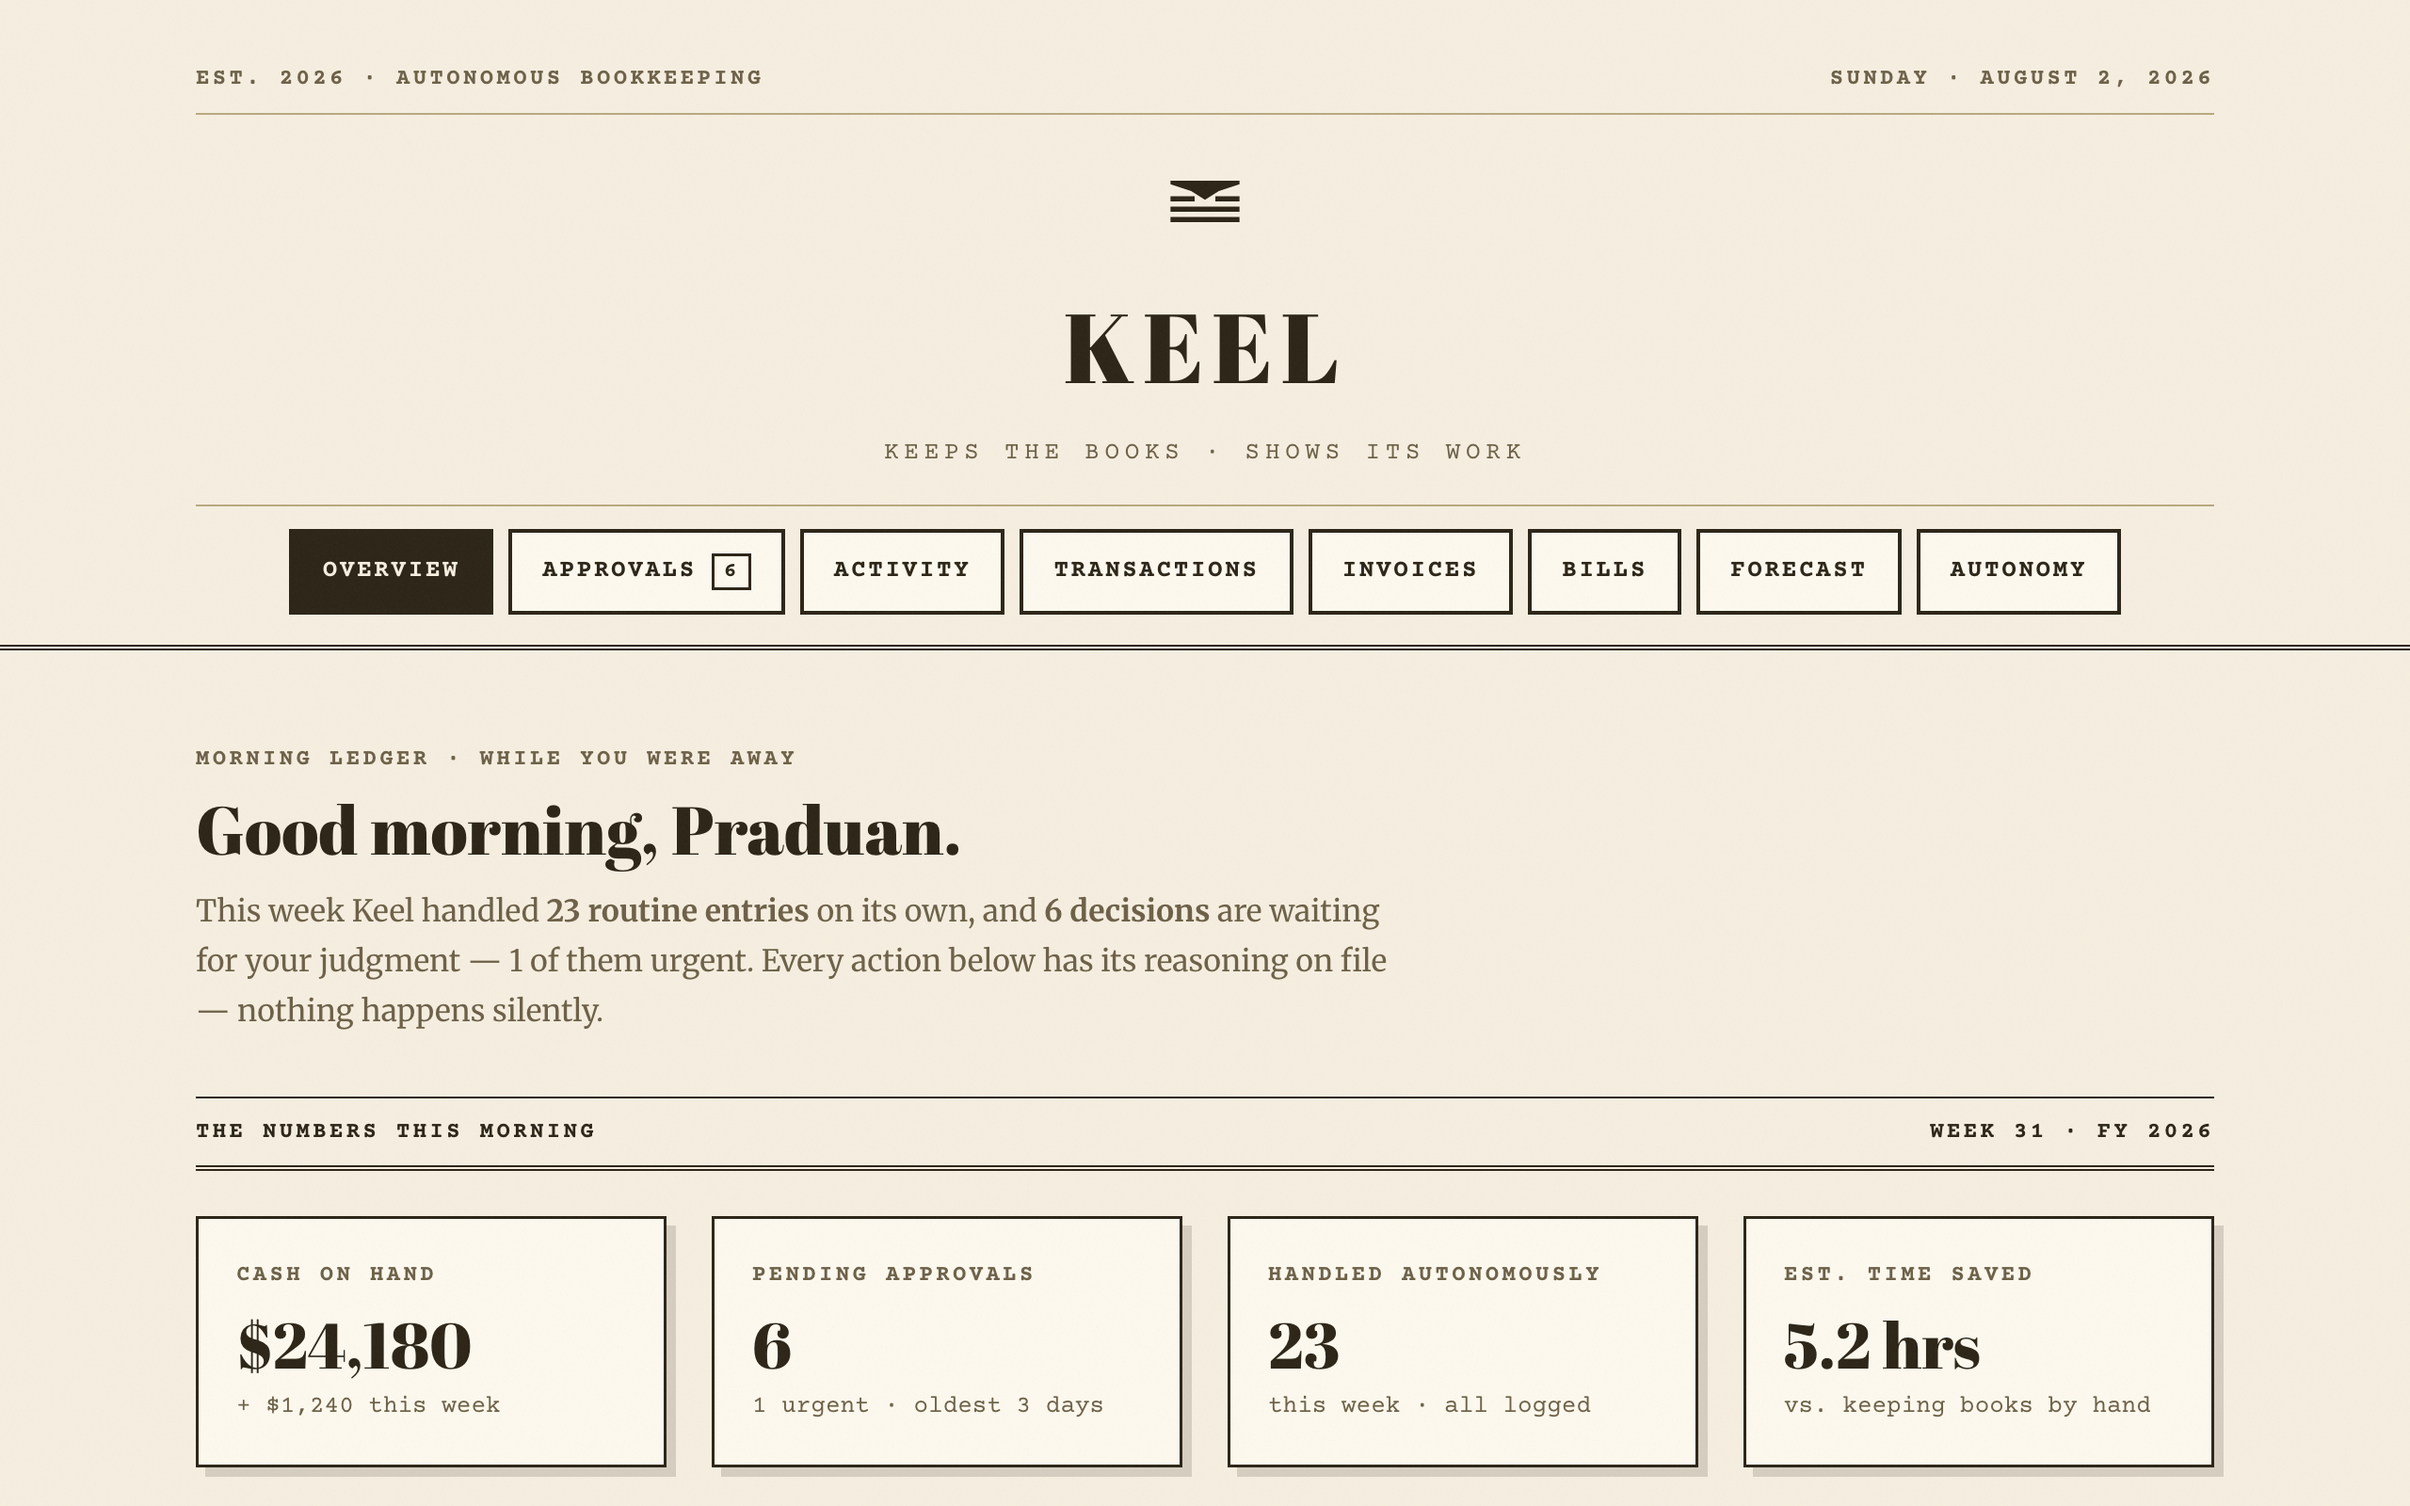
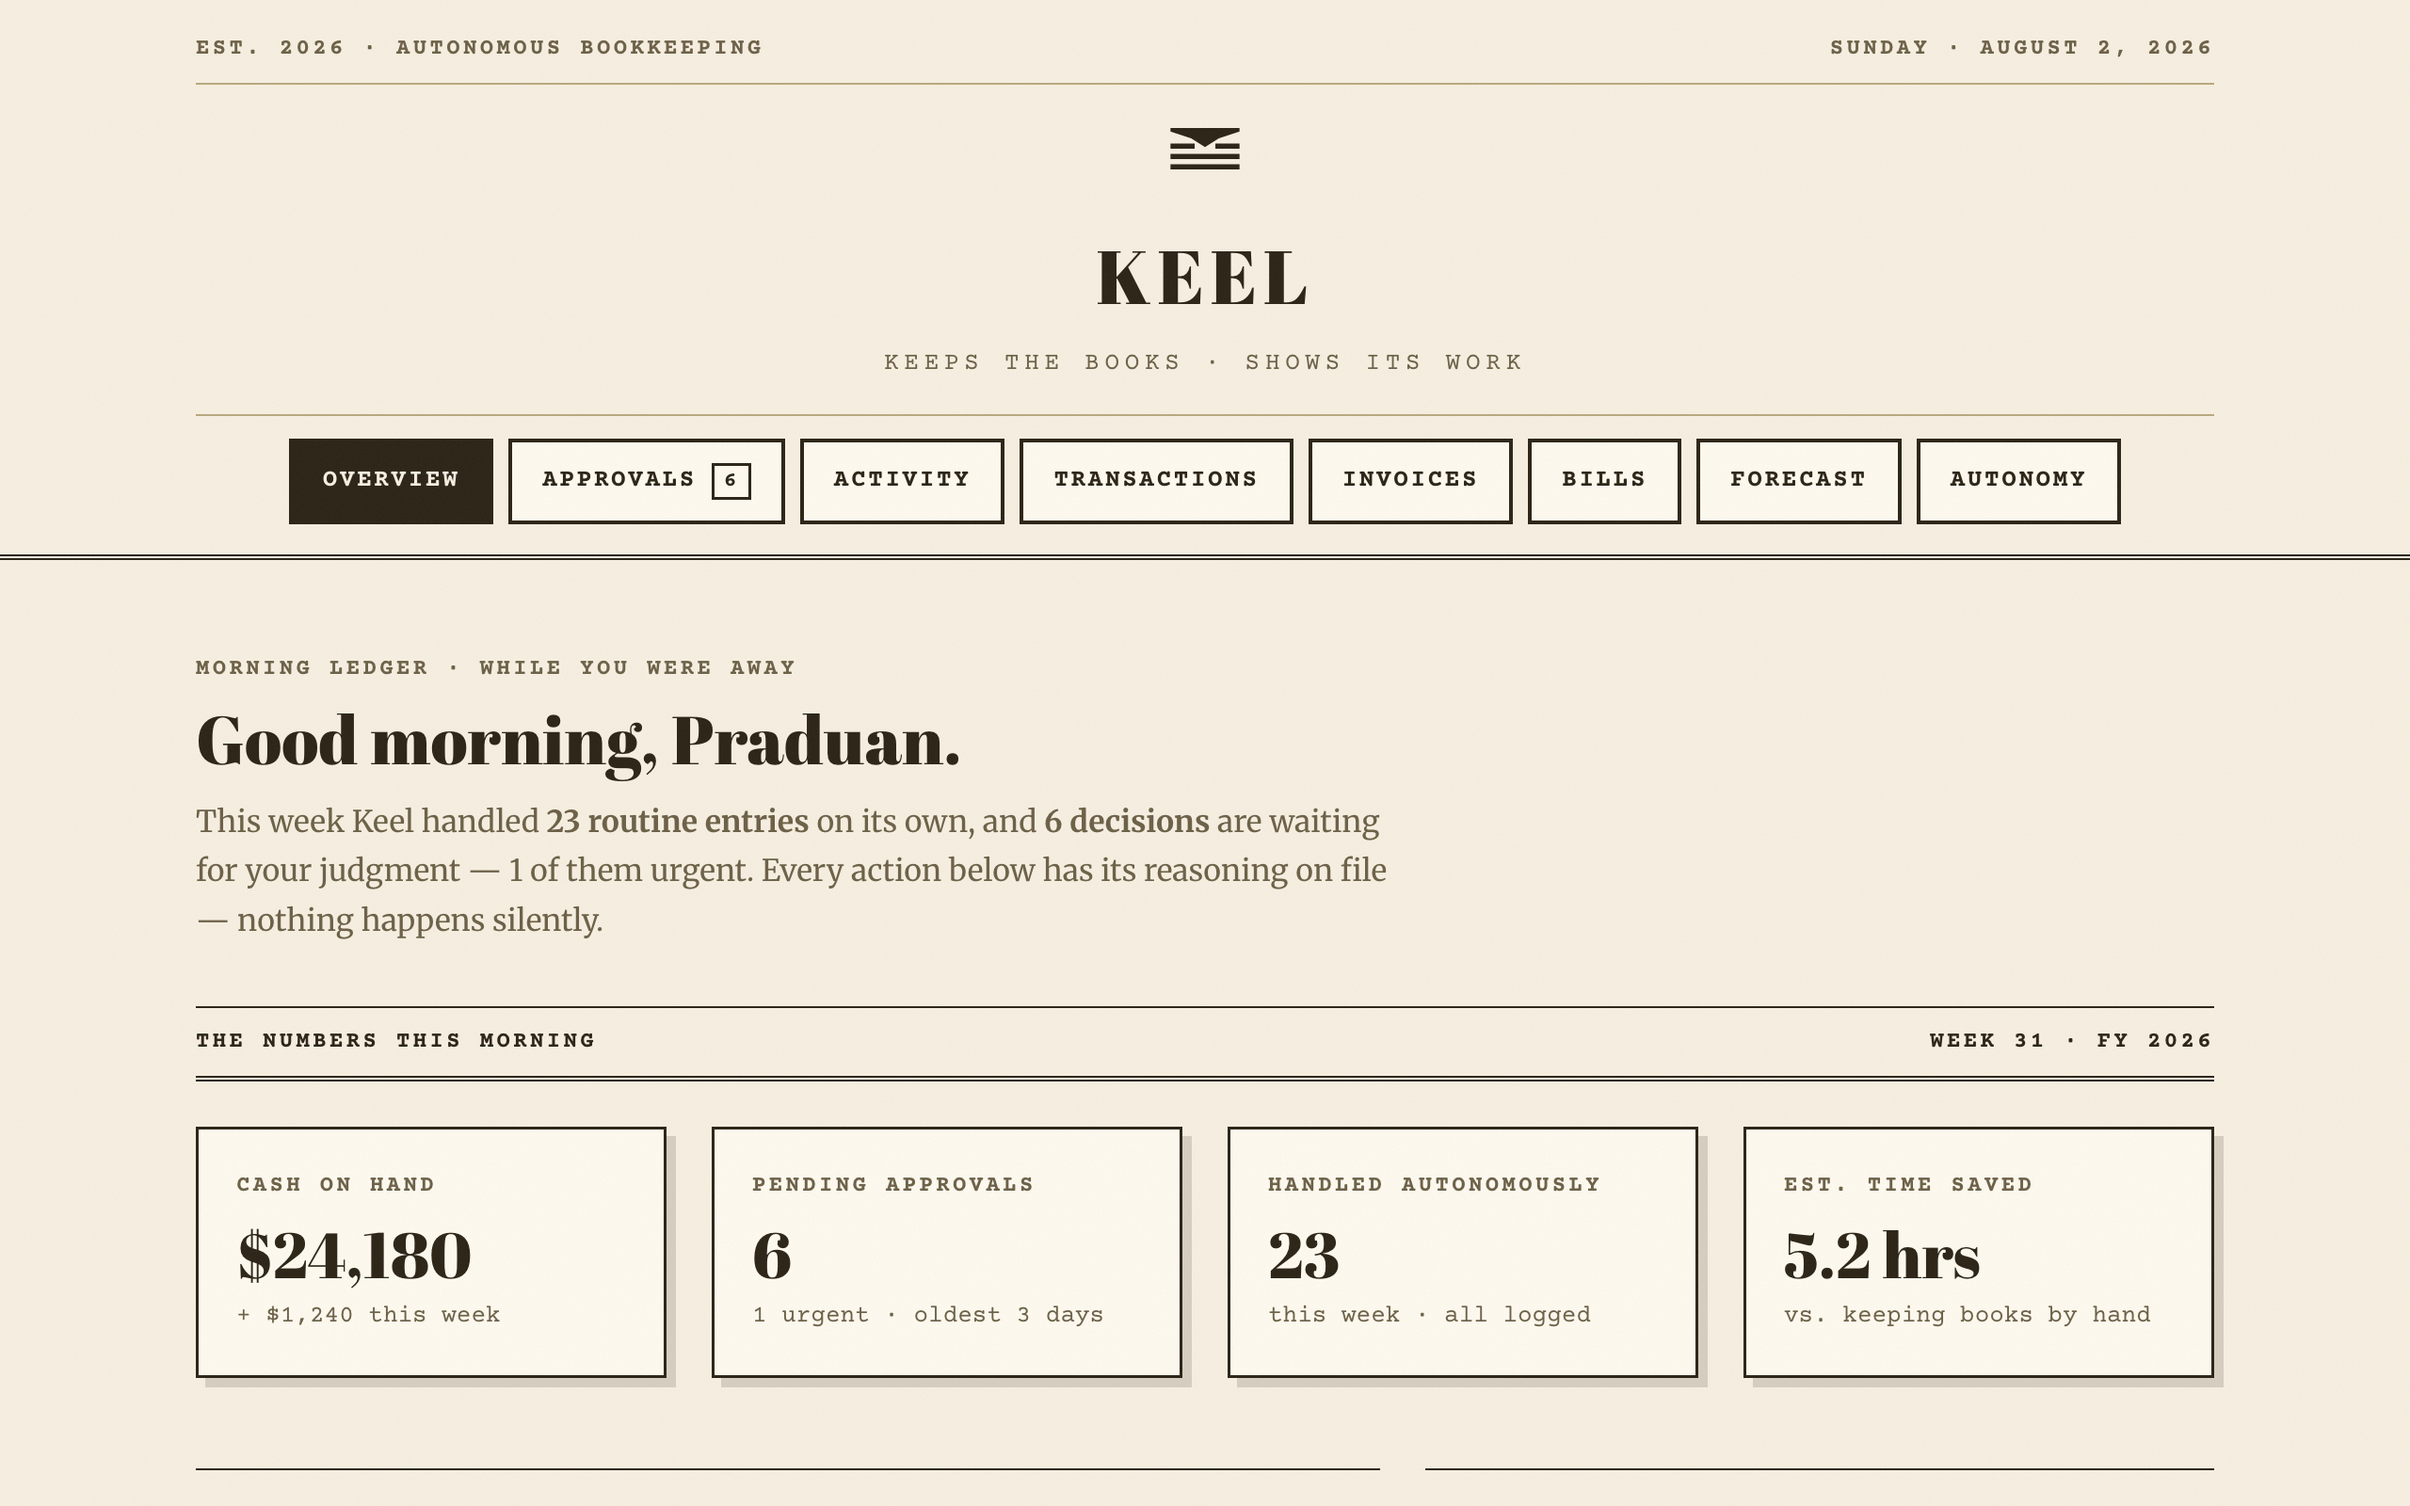
Keel prototype: responsive polish + re-exported screenshots
Working-tree changes to the Keel prototype's stylesheet and screenshots,
committed alongside the case study rather than left uncommitted. The CSS
adds breakpoints the prototype was missing — SE-class phones, landscape
phones, short laptop and iPad-landscape viewports — plus wrapping and
min-width fixes for the section heads, stat strips and ledger tables.

blur-map.json is regenerated: the four Keel screenshots were re-exported,
so the placeholders committed earlier no longer matched their images.

diff --git a/public/prototype/keel/style.css b/public/prototype/keel/style.css
@@ -128,6 +128,8 @@ main.container { padding-top: var(--s-7); padding-bottom: var(--s-8); }
 
 .section-head {
   display: flex;
+  flex-wrap: wrap;
+  row-gap: var(--s-1);
   align-items: baseline;
   justify-content: space-between;
   gap: var(--s-4);
@@ -154,7 +156,7 @@ main.container { padding-top: var(--s-7); padding-bottom: var(--s-8); }
 
 .stat-strip {
   display: grid;
-  grid-template-columns: repeat(auto-fit, minmax(210px, 1fr));
+  grid-template-columns: repeat(auto-fit, minmax(190px, 1fr));
   gap: var(--s-5);
 }
 
@@ -440,6 +442,7 @@ main.container { padding-top: var(--s-7); padding-bottom: var(--s-8); }
 
 /* ---------- Reasoning trace ---------- */
 .trace {
+  max-width: 78ch;
   border-left: 3px solid var(--teal);
   background: var(--teal-wash);
   padding: var(--s-3) var(--s-4);
@@ -469,6 +472,7 @@ main.container { padding-top: var(--s-7); padding-bottom: var(--s-8); }
   margin-bottom: var(--s-5);
   font-size: 15px;
 }
+.stat-strip + .banner { margin-top: var(--s-5); }
 .banner-warn   { border-left-color: var(--amber-text); background: var(--amber-wash); }
 .banner-danger { border-left-color: var(--red); background: var(--red-wash); }
 
@@ -633,12 +637,12 @@ main.container { padding-top: var(--s-7); padding-bottom: var(--s-8); }
   position: absolute;
   right: 0;
   bottom: 4px;
+  text-shadow: 0 0 4px var(--card), 0 0 4px var(--card), 0 0 4px var(--card);
   font-family: var(--font-data);
   font-size: 11px;
   font-weight: 700;
   letter-spacing: 0.1em;
   color: var(--red);
-  background: var(--card);
   padding: 0 4px;
 }
 
@@ -757,11 +761,12 @@ textarea.input { min-height: 96px; resize: vertical; }
 }
 .checkbox-row input[type="checkbox"] {
   accent-color: var(--teal);
-  width: 18px;
-  height: 18px;
-  margin-top: 4px;
+  width: 24px;
+  height: 24px;
+  margin-top: 2px;
   cursor: pointer;
 }
+.checkbox-row label { display: inline-block; min-height: 44px; padding-top: 10px; }
 .checkbox-row label { cursor: pointer; }
 
 fieldset {
@@ -792,7 +797,10 @@ fieldset legend {
   accent-color: var(--teal);
   margin: var(--s-3) 0 var(--s-1);
   cursor: pointer;
-  min-height: 24px;
+  /* 24px was under the 44px touch minimum — on a control that sets a
+     money ceiling, a mis-grab is expensive. The track stays visually
+     thin; only the hit box grows. */
+  min-height: 44px;
 }
 
 .range-scale {
@@ -853,7 +861,7 @@ fieldset legend {
 .chip-row {
   display: flex;
   flex-wrap: wrap;
-  gap: var(--s-2);
+  gap: 10px;
   margin-bottom: var(--s-5);
 }
 
@@ -868,7 +876,7 @@ fieldset legend {
   background: var(--card);
   border: 1.5px solid var(--ink);
   padding: 7px 12px;
-  min-height: 36px;
+  min-height: 44px;
   display: inline-flex;
   align-items: center;
   gap: var(--s-2);
@@ -1089,6 +1097,9 @@ fieldset legend {
   font-weight: 700;
   letter-spacing: 0.08em;
   text-transform: uppercase;
+  display: inline-flex;
+  align-items: center;
+  min-height: 44px;
 }
 
 .text-center { text-align: center; }
@@ -1099,15 +1110,46 @@ fieldset legend {
   margin: var(--s-5) 0;
 }
 
-/* ---------- Responsive ---------- */
+/* ============================================================
+   Responsive
+   Verified against a device matrix from 320px to 2560px, both
+   orientations, and 200%/400% browser zoom.
+
+   The rule that matters most is the minmax(0, …) below. A grid
+   track written as `1fr` takes an automatic min-content floor,
+   so a nowrap Courier table header nested inside it can push the
+   track — and the whole page — wider than the screen. Ledger
+   tables and the forecast chart are meant to scroll inside their
+   own container; the page itself must never scroll sideways.
+   ============================================================ */
+
+/* Grid children must be allowed to be narrower than their content. */
+.grid-2 > *, .setting > *, .specimen > * { min-width: 0; }
+
+/* Prose that happens to contain Courier figures may wrap. Ledger cells,
+   stat values and entry amounts keep their tabular nowrap. */
+p > .num, .specimen > .num { white-space: normal; overflow-wrap: anywhere; }
+
+/* Inside a scroll container a table should keep readable columns and let the
+   container scroll, rather than collapsing every column to its longest word. */
+.table-scroll .ledger { min-width: 480px; }
+@media (min-width: 561px) {
+  .table-scroll .ledger { min-width: 640px; }
+}
+
+/* The Recent-entries column is unreadable in a 379px track at iPad landscape,
+   so .grid-2 collapses earlier than .setting / .specimen do. */
+@media (max-width: 1024px) {
+  .grid-2 { grid-template-columns: minmax(0, 1fr); }
+}
+
 @media (max-width: 880px) {
-  .grid-2, .setting, .specimen { grid-template-columns: 1fr; }
+  .setting, .specimen { grid-template-columns: minmax(0, 1fr); }
   .entry-body { padding-left: var(--s-2); }
 }
 
 @media (max-width: 560px) {
   .container { padding: 0 var(--s-4); }
-  .brand { font-size: 38px; }
   .page-title { font-size: 28px; }
   .stat-value { font-size: 28px; }
   .jumbo { font-size: 80px; }
@@ -1119,6 +1161,49 @@ fieldset legend {
   .masthead-kicker { justify-content: center; }
   .masthead-kicker .mk-right { display: none; }
   .toolbar .input { width: 100%; }
+
+  /* A term and its definition stack; side by side leaves an 87px ribbon. */
+  .deflist { grid-template-columns: 1fr; }
+  .deflist dt { padding-top: var(--s-2); }
+
+  /* The masthead was taking 92% of a 320×568 screen before any content. */
+  .masthead { padding-top: var(--s-4); }
+  .brand-mark { margin-top: var(--s-3); }
+  .brand { font-size: 34px; margin-top: var(--s-2); }
+  .brand-sub { margin-bottom: var(--s-2); letter-spacing: 0.16em; }
+  .tabs { gap: 6px; padding: var(--s-2) 0 var(--s-3); }
+  .tab { padding: 10px 9px; font-size: 12px; letter-spacing: 0.04em; }
+}
+
+/* Very small phones (SE-class). The eight tabs are the app's whole structure
+   and stay visible rather than scrolling out of reach, so the decorative
+   chrome around them gives way instead: the tagline goes, the kicker and
+   wordmark shrink. Identity still reads from the mark plus KEEL. */
+@media (max-width: 400px) {
+  .masthead-kicker { font-size: 10px; letter-spacing: 0.06em; }
+  .brand-sub { display: none; }
+  .brand { font-size: 28px; margin-bottom: var(--s-3); }
+  .brand-mark { width: 36px; height: 36px; margin-top: var(--s-2); }
+  .tab { padding: 10px 7px; font-size: 11px; letter-spacing: 0.02em; }
+  .tabs { gap: 5px; }
+}
+
+/* Landscape phones: the masthead alone was taller than the whole viewport. */
+@media (max-height: 480px) and (orientation: landscape) {
+  .masthead { padding-top: var(--s-3); }
+  .brand-mark { display: none; }
+  .brand { font-size: 26px; margin: var(--s-2) 0 0; }
+  .brand-sub { margin-bottom: var(--s-2); }
+  .tabs { padding: var(--s-2) 0; }
+  main.container { padding-top: var(--s-5); }
+}
+
+/* Short desktop and tablet-landscape viewports (13" laptops, iPad landscape):
+   reclaim vertical space without touching portrait phones. */
+@media (min-height: 481px) and (max-height: 850px) {
+  .masthead { padding-top: var(--s-4); }
+  .brand { font-size: 40px; }
+  .brand-mark { margin-top: var(--s-3); }
 }
 
 /* ---------- Motion preferences ---------- */
